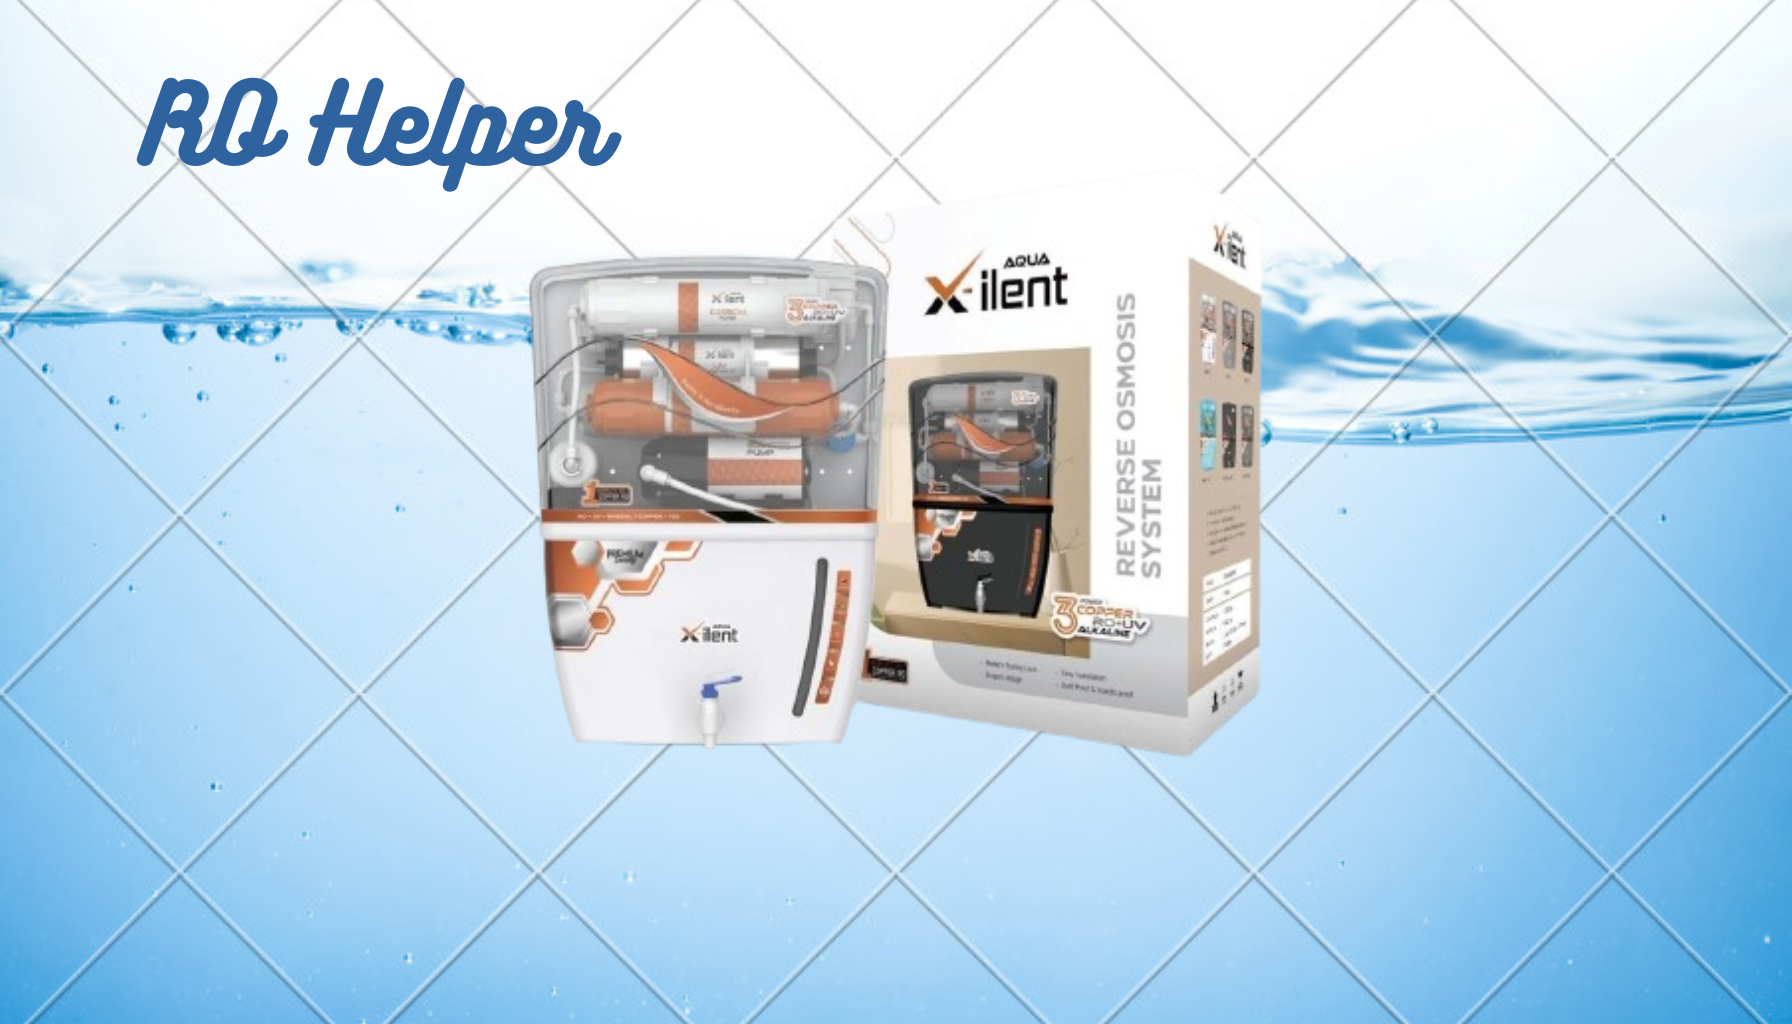
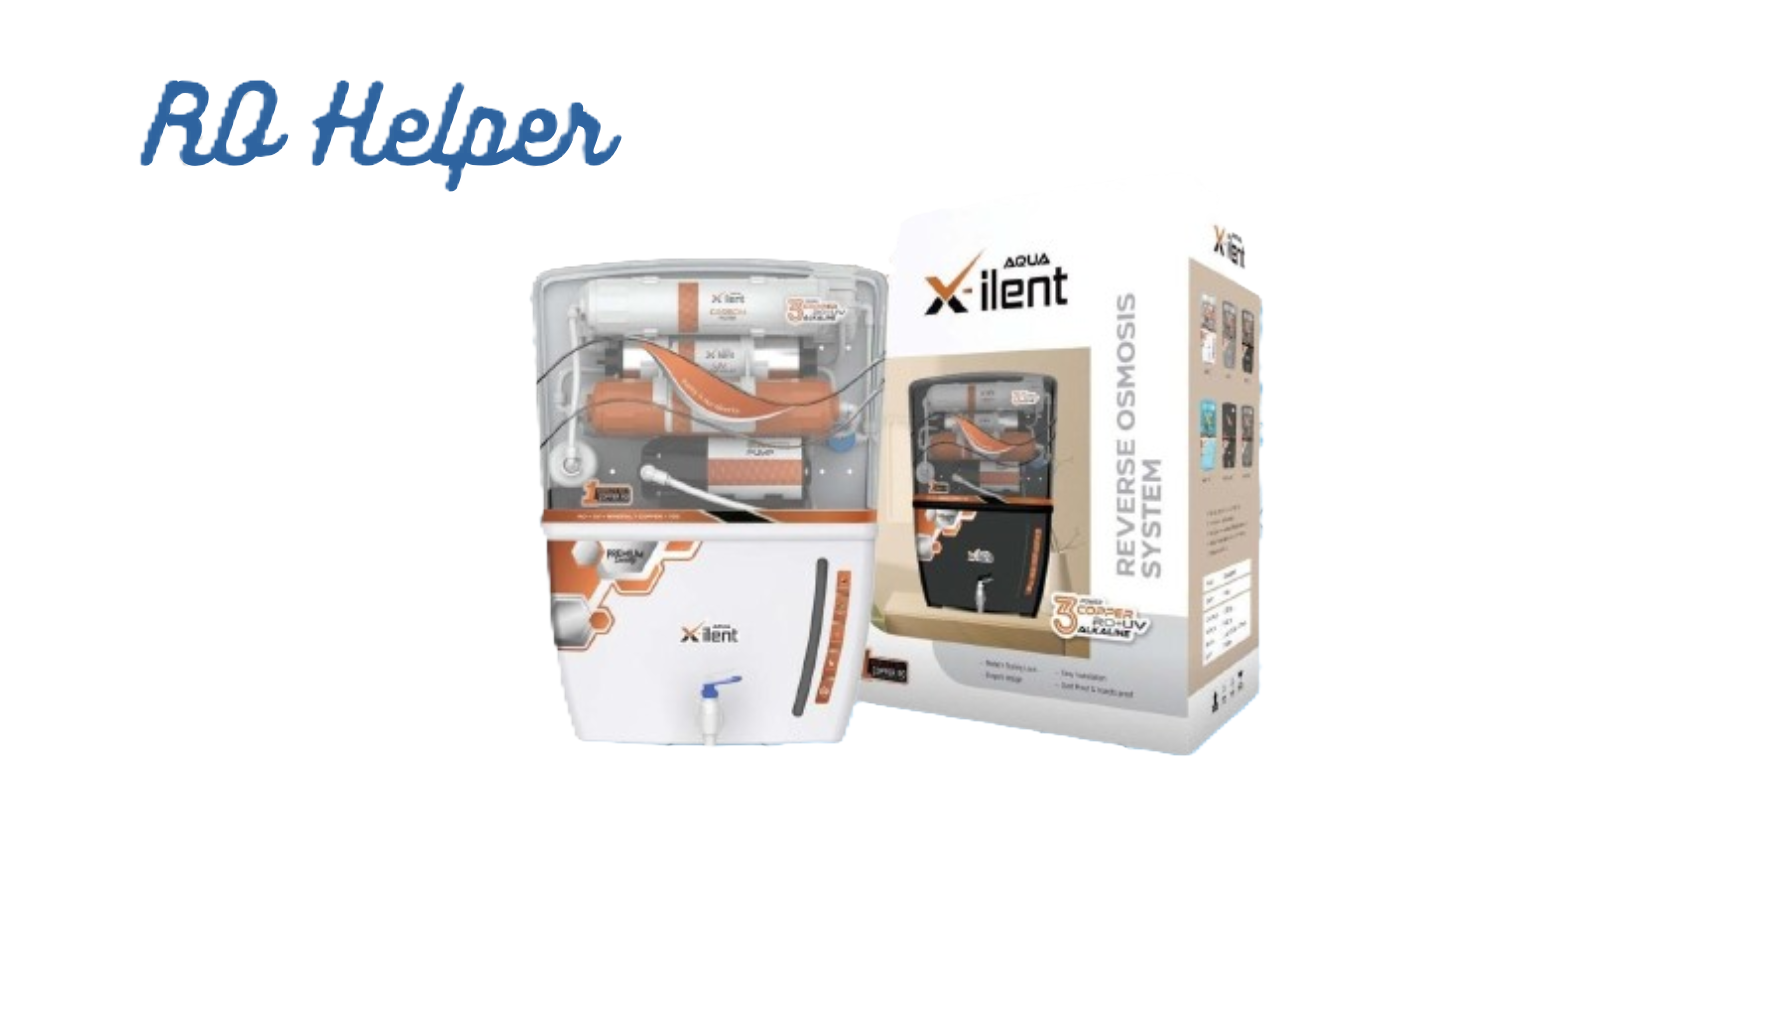
up-to-date-2025.0.0.2.0

diff --git a/src/Pages/Home.jsx b/src/Pages/Home.jsx
@@ -21,64 +21,53 @@ function Home() {
     autoplay: true,
     autoplaySpeed: 2000,
   };
+  
+  const bgImg = [ {id:0,img:BgImg1,}, {id:1,img:BgImg2,}, {id:2,img:BgImg3,}, {id:3,img:BgImg4,}, {id:4,img:BgImg5,}, {id:5,img:BgImg6,}];
 
   return (
-    <div name="Home" className=" mx-auto p-3 z-30">
-      <div className=" shadow shadow-[#cccc]   rounded-2xl rounded-bl-[100px]">
-        <header className="text-center p-2">
+    <div name="Home" className=" mx-auto p-5 z-30">
+      <div className="  Bg-water  rounded-2xl rounded-bl-[100px] ">
+        <header className="text-center p-5">
 
-          <h1 className="text-4xl font-bold text-blue-800 animate__animated animate__zoomIn"> Welcome to ocean water solution </h1>
-          <p className="mt-4 text-white">Your go-to solution for quality services!</p>
+          <h1 className=" text-4xl font-bold text-blue-800 animate__animated animate__zoomIn"> Welcome to ocean water solution </h1>
+          <p className="mt-4 text-black">Your go-to solution for quality services!</p>
         </header>
-        <section className="w-[85%]  h-auto lg:w-[70%] shadow shadow-[#cccccca3] bg-gray-800 rounded-xl mx-auto">
+        <section className="w-[85%]  h-auto lg:w-[70%]  bg-transparent rounded-xl mx-auto ">
           <Slider {...settings}>
-            <div>
-              <img src={BgImg1} className=' w-full h-auto object-cover' />
-            </div>
-            <div>
-              <img src={BgImg2} className=' w-full h-auto object-cover' />
-            </div>
-            <div>
-              <img src={BgImg3} className='rounded-xl  w-[99%] mx-auto h-auto object-cover' />
-            </div>
-            <div>
-              <img src={BgImg4} className='rounded-xl w-[99%] mx-auto h-auto object-cover' />
-            </div>
-            <div>
-              <img src={BgImg5} className='rounded-xl w-[99%] mx-auto h-auto object-cover' />
-            </div>
-            <div>
-              <img src={BgImg6} className='rounded-xl w-[99%] mx-auto h-auto object-cover' />
-            </div>
-            
-            
+            {
+              bgImg.map(({id,img}) => (
+                <div key={id}>
+                  <img src={img} className=' w-full h-auto object-cover' />
+                </div>
+              ))
+            }
           </Slider>
         </section>
       </div>
 
-      <div className=" bg-gray-900 text-white p-2   rounded-2xl  rounded-tr-[100px] mt-5 shadow shadow-gray-400">
+      <div className="S p-5   rounded-2xl  rounded-tr-[100px] mt-5">
         <section className="mt-10 ">
           <h2 className="text-3xl font-semibold">Our Services</h2>
           <div className="grid grid-cols-1 md:grid-cols-2 lg:grid-cols-3 gap-6 mt-6">
-            <div className="p-6 border rounded-lg">
+            <div className="p-6 S rounded-lg bg-blue-100">
               <h3 className="text-2xl">Routine Service:</h3>
               <p className="mt-2"> Regular maintenance to ensure your water purifier is functioning optimally.</p>
             </div>
-            <div className="p-6 border rounded-lg">
+            <div className="p-6 S rounded-lg bg-blue-100">
               <h3 className="text-2xl">Repair Service:</h3>
               <p className="mt-2">Fixing any issues or malfunctions in your water purifier.
               </p>
             </div>
-            <div className="p-6 border rounded-lg">
+            <div className="p-6 S rounded-lg bg-blue-100">
               <h3 className="text-2xl">Installation:</h3>
               <p className="mt-2">Setting up a new water purifier at your location.</p>
             </div>
-            <div className="p-6 border rounded-lg">
+            <div className="p-6 S rounded-lg bg-blue-100">
               <h3 className="text-2xl">Uninstallation:</h3>
               <p className="mt-2">Removing an existing water purifier.
               </p>
             </div>
-            <div className="p-6 border rounded-lg">
+            <div className="p-6 S rounded-lg bg-blue-100">
               <h3 className="text-2xl">Annual Maintenance Contracts (AMC):</h3>
               <p className="mt-2">Comprehensive service packages that cover multiple services over a year.</p>
             </div>

diff --git a/src/Pages/Contact.jsx b/src/Pages/Contact.jsx
@@ -3,35 +3,37 @@ import { FaFacebook } from "react-icons/fa";
 import { FaSquareWhatsapp } from "react-icons/fa6";
 import { FaPhone } from "react-icons/fa6";
 import { FaInstagramSquare } from "react-icons/fa";
-
+import ContactForm from '../Pages/ContactForm';
+import "./Home.css"
 
 function Contact() {
   return (
-    <div name="Contact Us" className=" container mx-auto p-2">
+    <div name="Contact Us" className="w-full rounded-4xl bg-white  p-5">
       <header className="text-center">
         <h1 className="text-4xl font-bold text-blue-800">Contact Us</h1>
         <p className="mt-4">We'd love to hear from you!</p>
       </header>
 
-      <section className="w-full mt-8 md:w-[50%] mx-auto flex justify-center items-center flex-col text-3xl gap-5 bg-gray-800 p-2 py-5 rounded-2xl rounded-tl-[50px] rounded-br-[50px]">
-        <h1 className=' bg-gray-900 shadow shadow-[#cccc] p-2 rounded-2xl flex  gap-2'> <FaPhone className=' text-white text-4xl' />
-          <a href='tel:+919926052876' className=' font-semibold text-2xl text-white hover:underline' >Contact Number</a>
+      <section className="S w-full mt-8  mx-auto flex justify-center items-center flex-col text-3xl gap-5   p-2 py-5 rounded-2xl rounded-tl-[50px] rounded-br-[50px] bg-blue-100">
+        <h1 className=' w-[90%] lg:w-[50%] bg-white shadow shadow-[#cccc] p-2 rounded-2xl flex justify-center gap-2 '> <FaPhone className=' text-black text-4xl ' />
+          <a href='tel:+919926052876' className=' font-semibold text-2xl text-black hover:underline ' > Mobile Number</a>
+        </h1> 
+
+        <h1 className=' w-[90%] lg:w-[50%] bg-white shadow shadow-[#cccc] p-2 rounded-2xl flex justify-center gap-2'><FaSquareWhatsapp className='text-black  text-4xl ' />
+          <a href={`https://wa.me/${+919926052876}`} target="_blank" rel="noopener noreferrer" className=' font-semibold text-2xl text-black hover:underline ' >Whatsapp</a>
         </h1>
 
-        <h1 className=' bg-gray-900 shadow shadow-[#cccc] p-2 rounded-2xl flex  gap-2'><FaSquareWhatsapp className='text-white  text-4xl' />
-          <a href={`https://wa.me/${+919926052876}`} target="_blank" rel="noopener noreferrer" className=' font-semibold text-2xl text-white hover:underline' >Whatsapp</a>
-        </h1>
-
-        <h1 className=' bg-gray-900 shadow shadow-[#cccc] p-2 rounded-2xl flex  gap-2'> <FaFacebook className=' text-white text-4xl' />
-          <a target="_blank" rel="noopener noreferrer" href='https://www.facebook.com/OceanROService' className=' font-semibold text-2xl text-white hover:underline' >Facebook</a>
+        <h1 className='  w-[90%] lg:w-[50%] bg-white shadow shadow-[#cccc] p-2 rounded-2xl flex justify-center gap-2 '> <FaFacebook className=' text-black text-4xl ' />
+          <a target="_blank" rel="noopener noreferrer" href='https://www.facebook.com/OceanROService' className=' font-semibold text-2xl text-black hover:underline' >Facebook</a>
 
 
         </h1>
-        <h1 className=' bg-gray-900 shadow shadow-[#cccc] p-2 rounded-2xl flex  gap-2'><FaInstagramSquare  className=' text-white text-4xl' />
-          <a target="_blank" rel="noopener noreferrer" href='https://www.instagram.com/ocean_water_solution?igsh=NG1xdnc4Ym43dTZr ' className=' font-semibold text-2xl text-white hover:underline' >Instagram</a>
+        <h1 className=' w-[90%] lg:w-[50%] bg-white shadow shadow-[#cccc] p-2 rounded-2xl flex justify-center gap-2 '><FaInstagramSquare  className=' text- text-4xl black' />
+          <a target="_blank" rel="noopener noreferrer" href='https://www.instagram.com/ocean_water_solution?igsh=NG1xdnc4Ym43dTZr ' className=' font-semibold text-2xl text-black hover:underline' >Instagram</a>
 
           </h1>
       </section>
+      <ContactForm />
     </div>
   );
 }

diff --git a/src/Pages/ContactForm.jsx b/src/Pages/ContactForm.jsx
@@ -50,27 +50,32 @@ function ContactForm() {
 
   return (
     <>
-      <main name="Contact Us" className="w-[95%] mx-auto h-auto  py-5 ">
+      <main name="Contact Us" className="S w-full bg-blue-100  h-auto  p-5   rounded-2xl rounded-bl-[100px]  mt-5" >
 
         <section className="mt-5">
           
           <form onSubmit={handleSubmit(onSubmit)}
-            className="space-y-4 mt-5 bg-gray-800 text-white  shadow rounded-2xl shadow-gray-500 p-5 mx-auto   md:w-[40%]">
+            className="space-y-4 my-10 bg-white S rounded-2xl p-5 mx-auto   md:w-[40%] ">
             <div className="text-2xl font-semibold">Send Your Message</div>
             <div>
               <label htmlFor="name" className="block text-lg">Name</label>
               <input name="name" {...register("name", { required: true })} type="text" id="name" placeholder=' Please enter a fullname..' className=" bg-white text-black w-full p-3 border border-gray-300 rounded-md  outline-none" />
-              {errors.name && <span className="text-red-500 pl-2.5">This field is required</span>}
+              {errors.name && <span className="text-red-500 font-bold pl-2.5">This field is required</span>}
             </div>
             <div>
               <label htmlFor="number" className="block text-lg"> Mobile Number</label>
               <input name="number" {...register("number", { required: true })} type="number" placeholder=' Please enter a mobile number..' id="number" className="  bg-white text-black w-full p-3 border border-gray-300 rounded-md outline-none" />
-              {errors.number && <span className="text-red-500 pl-2.5">This field is required</span>}
+              {errors.number && <span className="text-red-500 font-bold pl-2.5">This field is required</span>}
             </div>
             <div>
               <label htmlFor="message" className="block text-lg">Message</label>
               <textarea name="message" {...register("message", { required: true })} id="message" placeholder=' Enter your Query..' className="  bg-white text-black  w-full min-h-30 p-3 border border-gray-300 rounded-md outline-none"></textarea>
-              {errors.message && <span className="text-red-500 pl-2.5">This field is required</span>}
+              {errors.message && <span className="text-red-500 font-bold pl-2.5">This field is required</span>}
+            </div>
+            <div>
+              <label htmlFor="suggestion" className="block text-lg">Suggestion</label>
+              <textarea name="suggestion" {...register("suggestion", { required: true })} id="suggestion" placeholder=' Give your suggestion..' className="  bg-white text-black  w-full min-h-30 p-3 border border-gray-300 rounded-md outline-none"></textarea>
+              {errors.suggestion && <span className="text-red-500 font-bold pl-2.5">This field is required</span>}
             </div>
             <button type="submit" className="bg-blue-600 cursor-pointer hover:bg-blue-400 text-white p-3 rounded-2xl font-semibold">Send Message</button>
           </form>

diff --git a/src/Components/Navbar.jsx b/src/Components/Navbar.jsx
@@ -24,7 +24,7 @@ function Navbar() {
   ]
   return (
     <>
-      <header className="w-full shadow shadow-[#cccccc94] sticky  top-0 left-0   bg-gray-900 text-white px-10 py-5 z-40">
+      <header className="w-[99%] S bg-white mx-[0.5%] rounded-b-2xl  sticky  top-0 left-0  px-10 py-4 z-40">
         <div className="  container mx-auto flex justify-between items-center">
           <Link to='Home' activeClass="active"
                 spy={true}
@@ -32,7 +32,7 @@ function Navbar() {
                 offset={-70}
                 duration={500} className=" flex justify-center items-center gap-2 cursor-pointer">
             <img src={Logo} className=' w-10  shadow shadow-[#ccc] rounded-full ' />
-            <h1 className="text-3xl font-bold"><span className=' text-4xl'>R</span>O <span className=' text-4xl'>H</span>elper</h1>
+            <h1 className="text-2xl font-bold"><span className=' text-3xl'>R</span>O <span className=' text-3xl'>H</span>elper</h1>
           </Link>
 
           <nav className=' hidden   lg:flex'>
@@ -45,20 +45,20 @@ function Navbar() {
                 smooth={true}
                 offset={-70}
                 duration={500}
-             key={id} className="px-5 py-2 rounded-md font-semibold cursor-pointer  text-lg hover:bg-gray-800  hover:text-white">{text}</Link>
+             key={id} className="px-4 py-1 rounded-md font-bold cursor-pointer  text-lg hover:shadow shadow-[#cccc]">{text}</Link>
               ))
             }
           </nav>
 
-          <div className="lg:hidden block text-3xl text-white cursor-pointer" onClick={() => setMenu(!openMenu)}>
+          <div className="lg:hidden block text-3xl cursor-pointer" onClick={() => setMenu(!openMenu)}>
             {openMenu ? <RiCloseFill /> :  <IoMenu />}
           </div>
 
         </div>
       {
         openMenu && (
-          <div className="w-full  h-auto left-0 fixed top-21 lg:hidden ">
-            <nav className='w-full rounded-xl py-10 h-full bg-gray-900 text-white flex justify-center items-center flex-col '>
+          <div className="w-full  h-auto left-0 fixed top-20 lg:hidden ">
+            <nav className='w-full rounded-xl py-10 h-full flex justify-center items-center flex-col bg-white shadow shadow-[#ccc] '>
               {
                 menuName.map(({ id, text }) => (
                  <Link 
@@ -68,7 +68,7 @@ function Navbar() {
                   smooth={true}
                   offset={-70}
                   duration={500}
-                 key={id} onClick={() => setMenu(!openMenu)} className="w-[90%] text-center  py-3 rounded-md font-semibold cursor-pointer  text-xl  active:bg-gray-800">{text}</Link>
+                 key={id} onClick={() => setMenu(!openMenu)} className="w-[90%] text-center  py-3 rounded-md font-bold cursor-pointer  text-xl  active:shadow shadow-[#ccc]">{text}</Link>
                 ))
               }
             </nav>

diff --git a/src/Pages/About.jsx b/src/Pages/About.jsx
@@ -2,13 +2,13 @@ import React from 'react';
 
 function About() {
   return (
-    <div name="About" className="container mx-auto p-5 text-black">
-      <header className="text-center py-10 rounded-2xl rounded-bl-[100px]  shadow shadow-[#cccc]">
+    <div name="About" className="w-full p-5  text-black">
+      <header className="text-center py-10 bg-white rounded-2xl rounded-bl-[100px]  shadow shadow-[#cccc]">
         <h1 className="text-4xl font-bold text-blue-800">About Us</h1>
         <p className="mt-4">We are passionate about providing the best service!</p>
       </header>
 
-      <section className="mt-2 p-2 text-xl rounded-2xl rounded-tr-[100px] bg-gray-900 text-white">
+      <section className=" S mt-2 p-5 text-xl rounded-2xl rounded-tr-[100px]  bg-blue-100 ">
         <h2 className="text-3xl font-bold">Our Story</h2>
         <p className=" mt-4 text-justify">
           Hello, I'm Shambhulal Suryavanshi, the founder of Ocean water solution. My journey in the world of water purification began in 2005 with Eureka Forbes Co. Ltd., a leading direct marketing company. Starting as a sales representative, I gained valuable experience in customer interaction and product knowledge over a year.

diff --git a/src/Icon.jsx b/src/Icon.jsx
@@ -1,0 +1,22 @@
+import React from 'react'
+import { FaWhatsapp } from "react-icons/fa";
+import { MdCall } from "react-icons/md";
+
+
+function Icon() {
+    return (
+        <>
+            <div className=" fixed bottom-5 right-5">
+                <h1 className='w-[50px] h-[50px] flex justify-center items-center bg-blue-400 p-2 rounded-full'> 
+                    <a href='tel:+919926052876' className=' font-semibold  text-black hover:underline ' ><MdCall className=' text-black text-5xl border-2 border-black rounded-full p-2  ' /> </a>
+                </h1>
+                <br />
+                <h1 className='w-[50px] h-[50px] flex justify-center items-center bg-[#31cb31]  p-2 rounded-full'>
+                    <a href={`https://wa.me/${+919926052876}`} target="_blank" rel="noopener noreferrer" className=' font-semibold text-2xl text-black hover:underline ' ><FaWhatsapp className='text-green-100  text-4xl ' /></a>
+                </h1>
+            </div>
+        </>
+    )
+}
+
+export default Icon

diff --git a/src/Components/Footer.jsx b/src/Components/Footer.jsx
@@ -23,10 +23,10 @@ function Footer() {
     }
   ];
   return (
-    <footer className="bg-gray-900 gap-6 lg:gap-0 text-white p-10 flex-col lg:flex-row flex justify-between">
+    <footer className="bg-black gap-10 lg:gap-0 text-white px-5 lg:px-15 py-20 flex-col lg:flex-row flex justify-between">
       <div className=" order-2 lg:order-1 text-center">
-        <p>&copy; 2025 RO Helper. All Rights Reserved.</p>
-        <p className=' flex justify-center items-center gap-2.5 mt-1'> <PiMapPinAreaFill className=' text-2xl font-bold'/>Indore, Madhya Pradesh, India</p>
+        <p>&copy; 2025 RO Helper. All Rights Reserved. </p>
+        <p className=' flex justify-center items-center gap-2.5 mt-1'> <PiMapPinAreaFill className=' text-2xl text-red-600 font-bold'/>Indore, Madhya Pradesh, India</p>
       </div>
       <div className="flex order-1 lg:order-2 gap-8 justify-center items-center">
         {

diff --git a/src/App.jsx b/src/App.jsx
@@ -4,20 +4,19 @@ import About from './Pages/About';
 import Contact from './Pages/Contact';
 import Footer from './Components/Footer';
 import Navbar from './Components/Navbar';
-import ContactForm from './Pages/ContactForm';
+import Icon from './Icon';
 import { Toaster } from 'react-hot-toast';
-import AddStructuredData from './AddStructuredData';
 
 function App() {
   return (
     <>
-      <div className="">
+      <div>
         <Navbar />
         <Home />
         <About />
         <Contact />
-        <ContactForm />
         <Footer />
+        <Icon/>
       </div>
       <Toaster/>
 

diff --git a/src/AddStructuredData.jsx b/src/AddStructuredData.jsx
@@ -1,0 +1,19 @@
+import React from "react";
+import { Helmet } from "react-helmet";
+
+const AddStructuredData = () => {
+  return (
+    <Helmet>
+      <script type="application/ld+json">
+        {`{
+          "@context": "Ro Helper",
+          "@type": "WebSite",
+          "name": "Ro Helper  Call Us 9926052876",
+          "url": "https://www.rohelper.com"
+        }`}  
+      </script>
+    </Helmet>
+  );
+};
+
+export default AddStructuredData;

diff --git a/index.html b/index.html
@@ -5,7 +5,6 @@
     <link rel="icon" type="image/svg+xml" href="./public/Img/LOGO.png" />
     <meta name="viewport" content="width=device-width, initial-scale=1.0" />
     <meta name="google-site-verification" content="BYtslmR_43GFd_FfFis7cI2EfH18jJdYgJN0-s4Ii2w" />
-    <meta name="google-site-verification" content="bjJrCqefsR3xTXHyon9c5YoU_UvfP7mBTvHlSuqlojY" />
     <title> RO Helper </title>
   </head>
   <body>

diff --git a/src/Pages/Home.css b/src/Pages/Home.css
@@ -9,3 +9,12 @@
     margin: 0px  auto;
 
 }
+.Bg-water{
+    background-image: url("../../public/Img/BG.png");
+    background-size: cover;
+    object-fit: cover;
+}
+
+.S{
+    box-shadow: 1px 1px 2px  2.5px #cccccc5e;
+}
